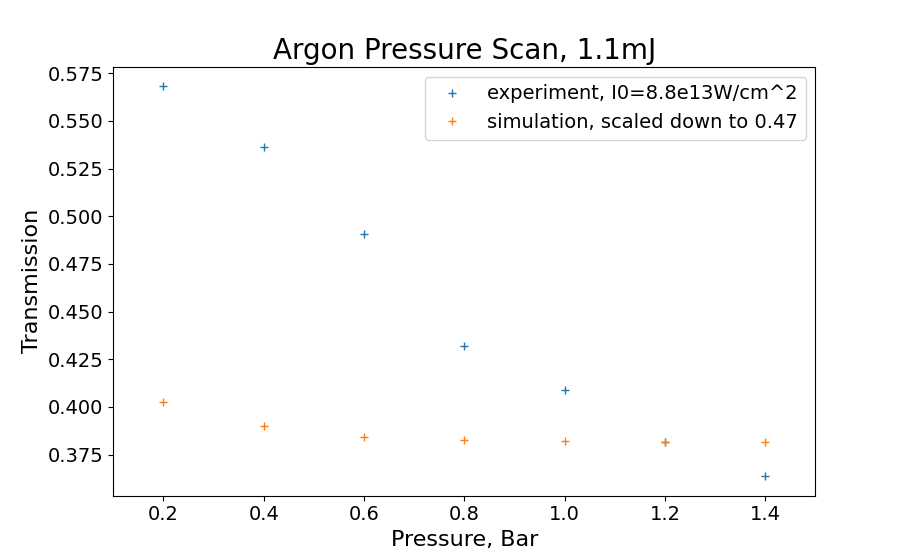
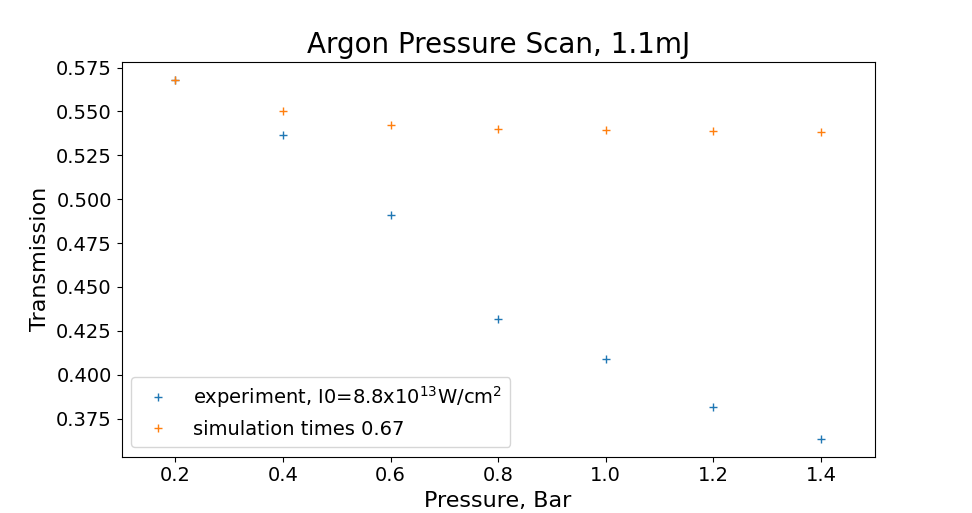
updated transmission plots

diff --git a/HCF sim/Python/experiments/simulations/transmission_energies/Ne_PowerScan_transmission.py b/HCF sim/Python/experiments/simulations/transmission_energies/Ne_PowerScan_transmission.py
@@ -168,14 +168,14 @@ sim_energies_out_int=np.array(sim_energies_out_int)
 sim_energies_in_int=np.array(sim_energies_in_int)
 
 transmission_sim=sim_energies_out_int/sim_energies_in_int
-scaling = transmission_actual[0]/transmission_sim[0]
+scaling = np.mean(transmission_actual)/np.mean(transmission_sim)
 
 transmission_sim_scaled=transmission_sim*scaling
 
 delta_lambda=rms_width(wavel_nm,intens1_2)
 I0=[]
 for i in range(len(energies_in)):
-    I0.append(str(round(find_I0(intensities[i],wavel_nm*10**-9,delta_lambda*10**-9,energies_in[i],0.5*175e-6)*10**-13,1))+"e13")
+    I0.append(str(round(find_I0(intensities[i],wavel_nm*10**-9,delta_lambda*10**-9,energies_in[i],0.5*175e-6)*10**-13,1)))
 
 """
 fig, ax_left = plt.subplots()
@@ -197,16 +197,20 @@ fig = plt.figure()
 ax1 = fig.add_subplot(111)
 
 #a = np.cos(2*np.pi*np.linspace(0, 1, 60.))
-ax1.plot(energies_in, transmission_actual,label="experimental",marker="+",ls="None")
-ax1.plot(energies_in,transmission_sim_scaled,label="simulation, scaled down to %s"%(round(scaling,2)),marker="+",ls="None")
-ax1.set_xlim(0.2e-3,1.3e-3)
-ax1.set_xlabel("Input Energy, J")
+ax1.plot(energies_in*1000, transmission_actual,label="experimental",marker="+",ls="None")
+ax1.plot(energies_in*1000,transmission_sim_scaled,label="simulation times %s"%(round(scaling,2)),marker="+",ls="None")
+ax1.set_xlim(0.2,1.3)
+ax1.set_xticks(list(energies_in*1000))
+plt.xticks(fontsize=14)
+plt.yticks(fontsize=14)
+ax1.set_xlabel("Input Energy, mJ")
 ax1.set_ylabel("Transmission")
-plt.legend()
+plt.legend(fontsize=14)
 ax2 = ax1.twiny()
-ax2.set_xlabel("Input Intensity (I0), W/cm^2")
-ax2.set_xlim(0.2e-3,1.3e-3)
-ax2.set_xticks(list(energies_in))
+ax2.set_xlabel("Input Intensity (I0), $\mathrm{10^{13}W/cm^2}$")
+ax2.set_xlim(0.2,1.3)
+ax2.set_xticks(list(energies_in*1000))
+plt.xticks(fontsize=14)
 ax2.set_xticklabels(I0)
 plt.show()
 

diff --git a/HCF sim/Python/experiments/simulations/transmission_energies/Ar_PressureScan_transmission.py b/HCF sim/Python/experiments/simulations/transmission_energies/Ar_PressureScan_transmission.py
@@ -149,13 +149,13 @@ scaling = transmission_actual[0]/transmission_sim[0]
 transmission_sim_scaled=transmission_sim*scaling
 
 delta_lambda=rms_width(wavel_nm,intens1_1)
-I0=str(round(find_I0(intens1_1,wavel_nm*10**-9,delta_lambda*10**-9,energy_in,0.5*175e-6)*10**-13,1))+"e13"
+I0=str(round(find_I0(intens1_1,wavel_nm*10**-9,delta_lambda*10**-9,energy_in,0.5*175e-6)*10**-13,1))
 
 fig = plt.figure()
 ax1 = fig.add_subplot(111)
 
 #a = np.cos(2*np.pi*np.linspace(0, 1, 60.))
-ax1.plot(np.array(pressures), transmission_actual,label="experiment, I0="+I0+"$\mathrm{W/cm^2}",marker="+",ls="None")
+ax1.plot(np.array(pressures), transmission_actual,label=r"experiment, I0="+I0+"x"+"$\mathrm{10^{13}W/cm^2}$",marker="+",ls="None")
 ax1.plot(np.array(pressures),transmission_sim_scaled,label="simulation times %s"%(round(scaling,2)),marker="+",ls="None")
 ax1.set_xlim(0.1,1.5)
 ax1.set_xticks(list(pressures))
